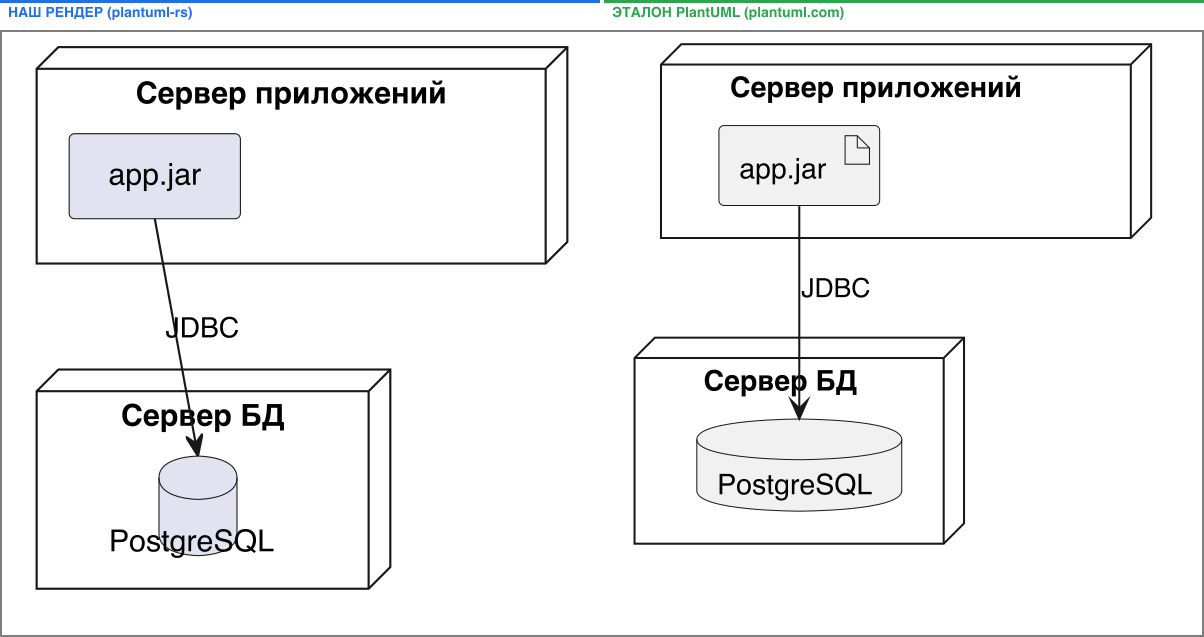
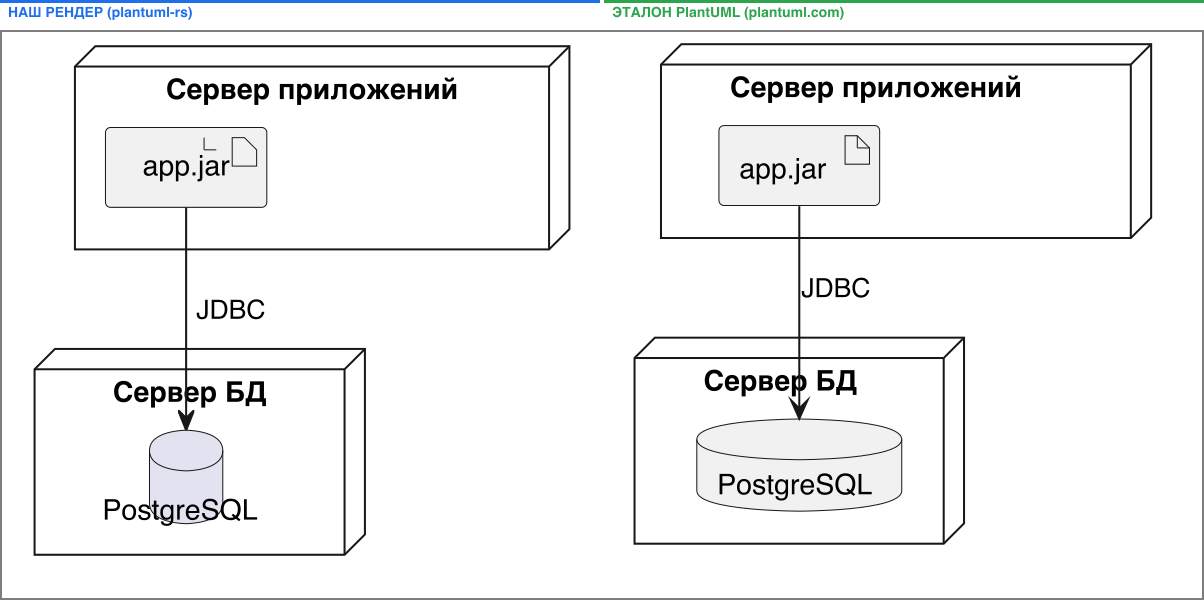
feat(layout): иконка документа у артефакта
У артефакта в правом верхнем углу появилась иконка документа с загнутым
уголком, как в эталоне deployment_basic. Геометрия снята с эталона:
рамка 79.027x39.297 в точке (57.49, 46), иконка 12x14 на 17 от правого
края и 5 от верхнего, уголок 6x6.

Попутно исправлена заливка самого артефакта: была лавандовая, стала
#F1F1F1 со stroke-width 0.5, как в эталоне.

Важно: вершины ElementType::Polygon задаются в ЛОКАЛЬНЫХ координатах
рамки — первая версия передала абсолютные, и иконка уехала за пределы
узла.

diff --git a/crates/plantuml-layout/src/component/engine.rs b/crates/plantuml-layout/src/component/engine.rs
@@ -255,16 +255,115 @@ impl ComponentLayoutEngine {
     fn create_artifact_element(&self, name: &str, x: f64, y: f64) -> LayoutElement {
         let width = self.config.text.width(name, self.config.font_size) + ARTIFACT_TEXT_PADDING;
 
+        // Заливка и толщина рамки — как в эталоне `deployment_basic`:
+        // `fill="#F1F1F1"`, `stroke-width:0.5`.
         LayoutElement {
             id: format!("artifact_{}", name.replace(' ', "_")),
             bounds: Rect::new(x, y, width, ARTIFACT_HEIGHT),
             text: None,
-            properties: std::collections::HashMap::new(),
+            properties: [
+                ("fill".to_string(), "#F1F1F1".to_string()),
+                ("stroke".to_string(), "#181818".to_string()),
+                ("stroke-width".to_string(), "0.5".to_string()),
+            ]
+            .into_iter()
+            .collect(),
             element_type: ElementType::Rectangle {
                 label: name.to_string(),
                 corner_radius: 2.5,
             },
         }
+    }
+
+    /// Иконка документа в правом верхнем углу артефакта.
+    ///
+    /// Геометрия снята с эталона `deployment_basic`: рамка артефакта
+    /// 79.027x39.297 в точке (57.49, 46), иконка 12x14 в точке
+    /// (119.517, 51) и загнутый уголок 6x6.
+    fn create_artifact_icon(&self, bounds: Rect) -> Vec<LayoutElement> {
+        /// Отступ иконки от правого края рамки.
+        const INSET_RIGHT: f64 = 17.0;
+        /// Отступ иконки от верхнего края рамки.
+        const INSET_TOP: f64 = 5.0;
+        /// Ширина и высота иконки.
+        const WIDTH: f64 = 12.0;
+        const HEIGHT: f64 = 14.0;
+        /// Сторона загнутого уголка.
+        const FOLD: f64 = 6.0;
+
+        let x = bounds.x + bounds.width - INSET_RIGHT;
+        let y = bounds.y + INSET_TOP;
+
+        let outline = LayoutElement {
+            id: "artifact_icon".to_string(),
+            bounds: Rect::new(x, y, WIDTH, HEIGHT),
+            text: None,
+            properties: [
+                ("fill".to_string(), "#F1F1F1".to_string()),
+                ("stroke".to_string(), "#181818".to_string()),
+                ("stroke-width".to_string(), "0.5".to_string()),
+            ]
+            .into_iter()
+            .collect(),
+            // Вершины — в ЛОКАЛЬНЫХ координатах `bounds`: рендерер
+            // прибавляет к ним начало рамки.
+            element_type: ElementType::Polygon {
+                points: vec![
+                    Point::new(0.0, 0.0),
+                    Point::new(0.0, HEIGHT),
+                    Point::new(WIDTH, HEIGHT),
+                    Point::new(WIDTH, FOLD),
+                    Point::new(WIDTH - FOLD, 0.0),
+                ],
+                label: None,
+                font_size: 0.0,
+            },
+        };
+
+        // Загнутый уголок: вертикаль и горизонталь от точки сгиба.
+        // Двумя отрезками, потому что `ElementType::Path` — единичный
+        // вариант без геометрии, а ломаная здесь из двух звеньев.
+        let mut fold = Vec::new();
+        for (index, (from, to)) in [
+            (
+                Point::new(x + WIDTH - FOLD, y),
+                Point::new(x + WIDTH - FOLD, y + FOLD),
+            ),
+            (
+                Point::new(x + WIDTH - FOLD, y + FOLD),
+                Point::new(x + WIDTH, y + FOLD),
+            ),
+        ]
+        .into_iter()
+        .enumerate()
+        {
+            fold.push(LayoutElement {
+                id: format!("artifact_icon_fold_{index}"),
+                bounds: Rect::new(from.x, from.y, (to.x - from.x).abs(), (to.y - from.y).abs()),
+                text: None,
+                properties: [
+                    ("fill".to_string(), "none".to_string()),
+                    ("stroke".to_string(), "#181818".to_string()),
+                    ("stroke-width".to_string(), "0.5".to_string()),
+                ]
+                .into_iter()
+                .collect(),
+                element_type: ElementType::Edge {
+                    points: vec![from, to],
+                    label: None,
+                    arrow_start: false,
+                    arrow_end: false,
+                    dashed: false,
+                    edge_type: EdgeType::Link,
+                    from_cardinality: None,
+                    to_cardinality: None,
+                },
+            });
+        }
+
+        let mut result = vec![outline];
+        result.extend(fold);
+        result
     }
 
     /// Создаёт элемент базы данных (цилиндр)
@@ -515,6 +614,14 @@ impl ComponentLayoutEngine {
                 positions.insert(alias.clone(), bounds);
             }
             elements.push(elem);
+
+            // У артефакта в правом верхнем углу — иконка документа.
+            // Измерено по эталону `deployment_basic`: рамка 57.49..136.52,
+            // иконка 119.517..131.517 по x и 51..65 по y, то есть 12x14
+            // на 17 от правого края и 5 от верхнего.
+            if comp.component_type == ComponentType::Artifact {
+                elements.extend(self.create_artifact_icon(bounds));
+            }
         }
 
         // Вычисляем размер пакета по фактическому содержимому
